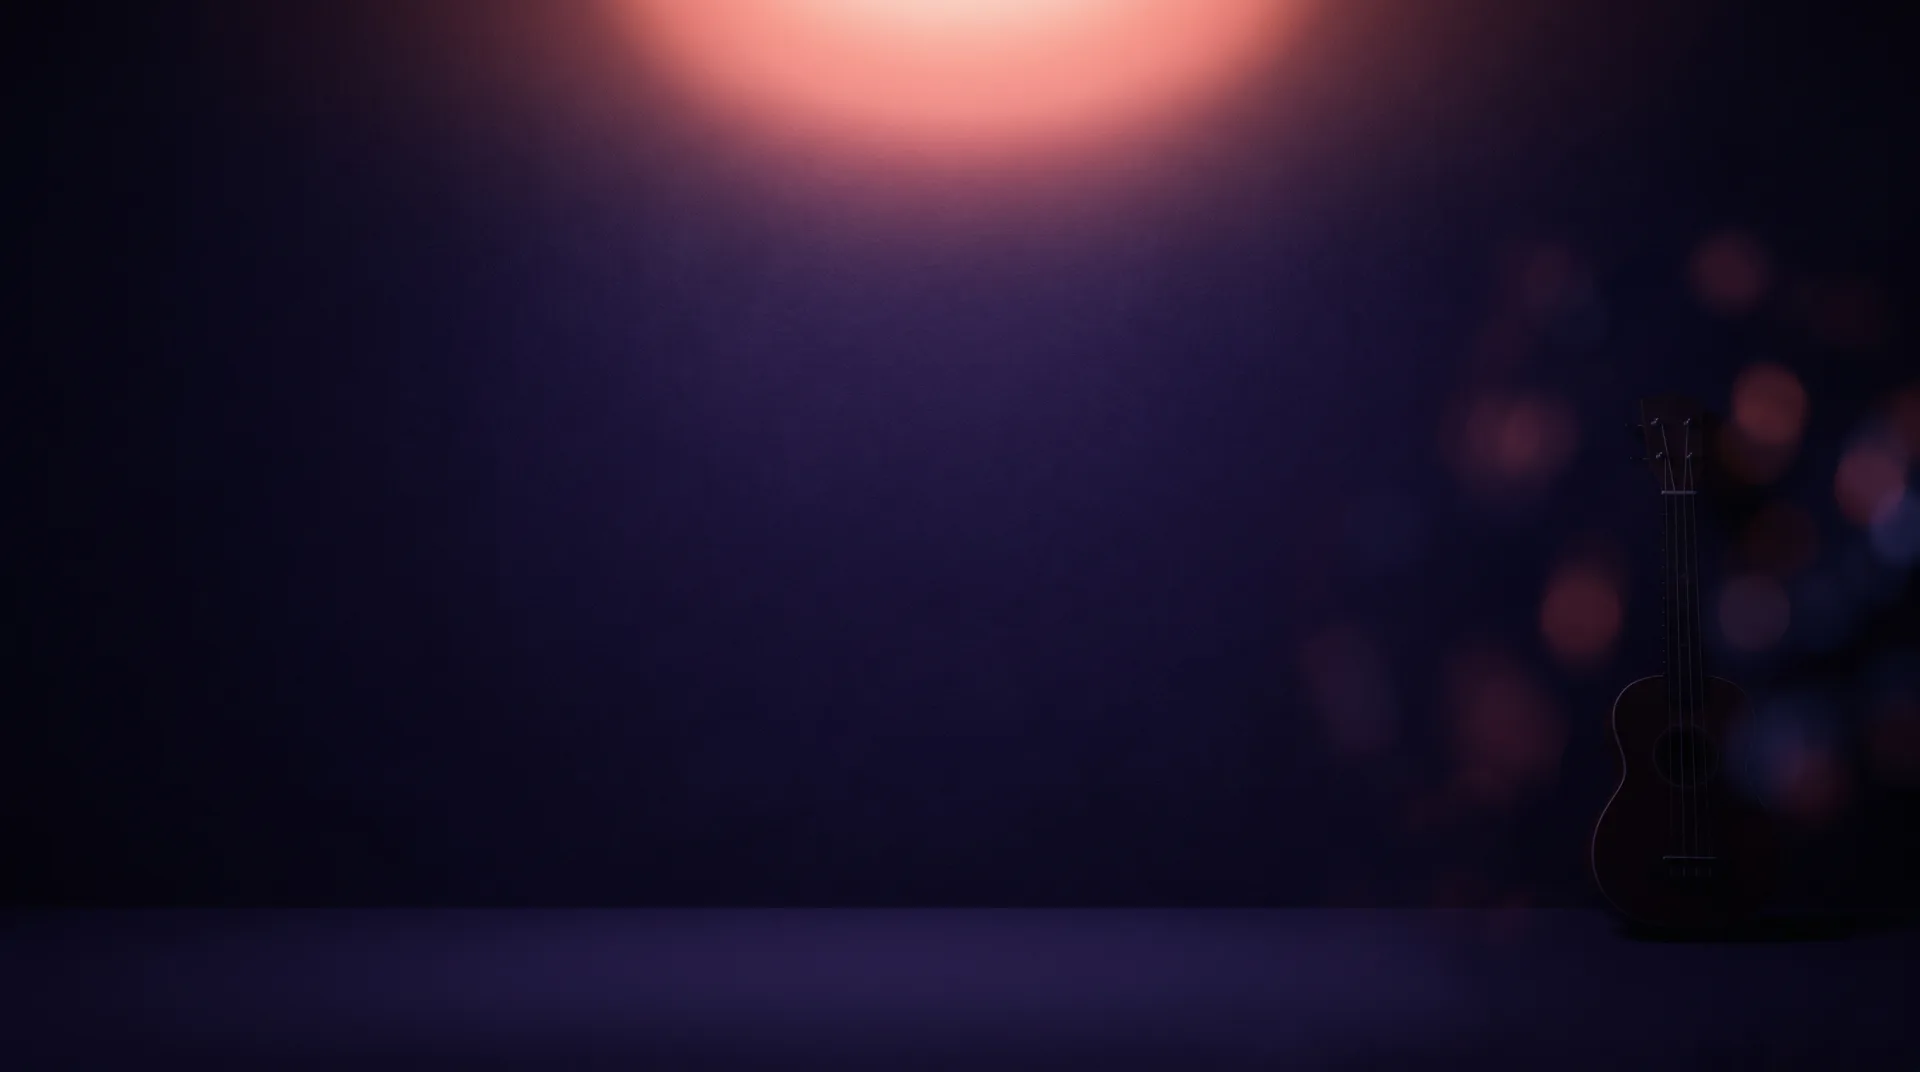
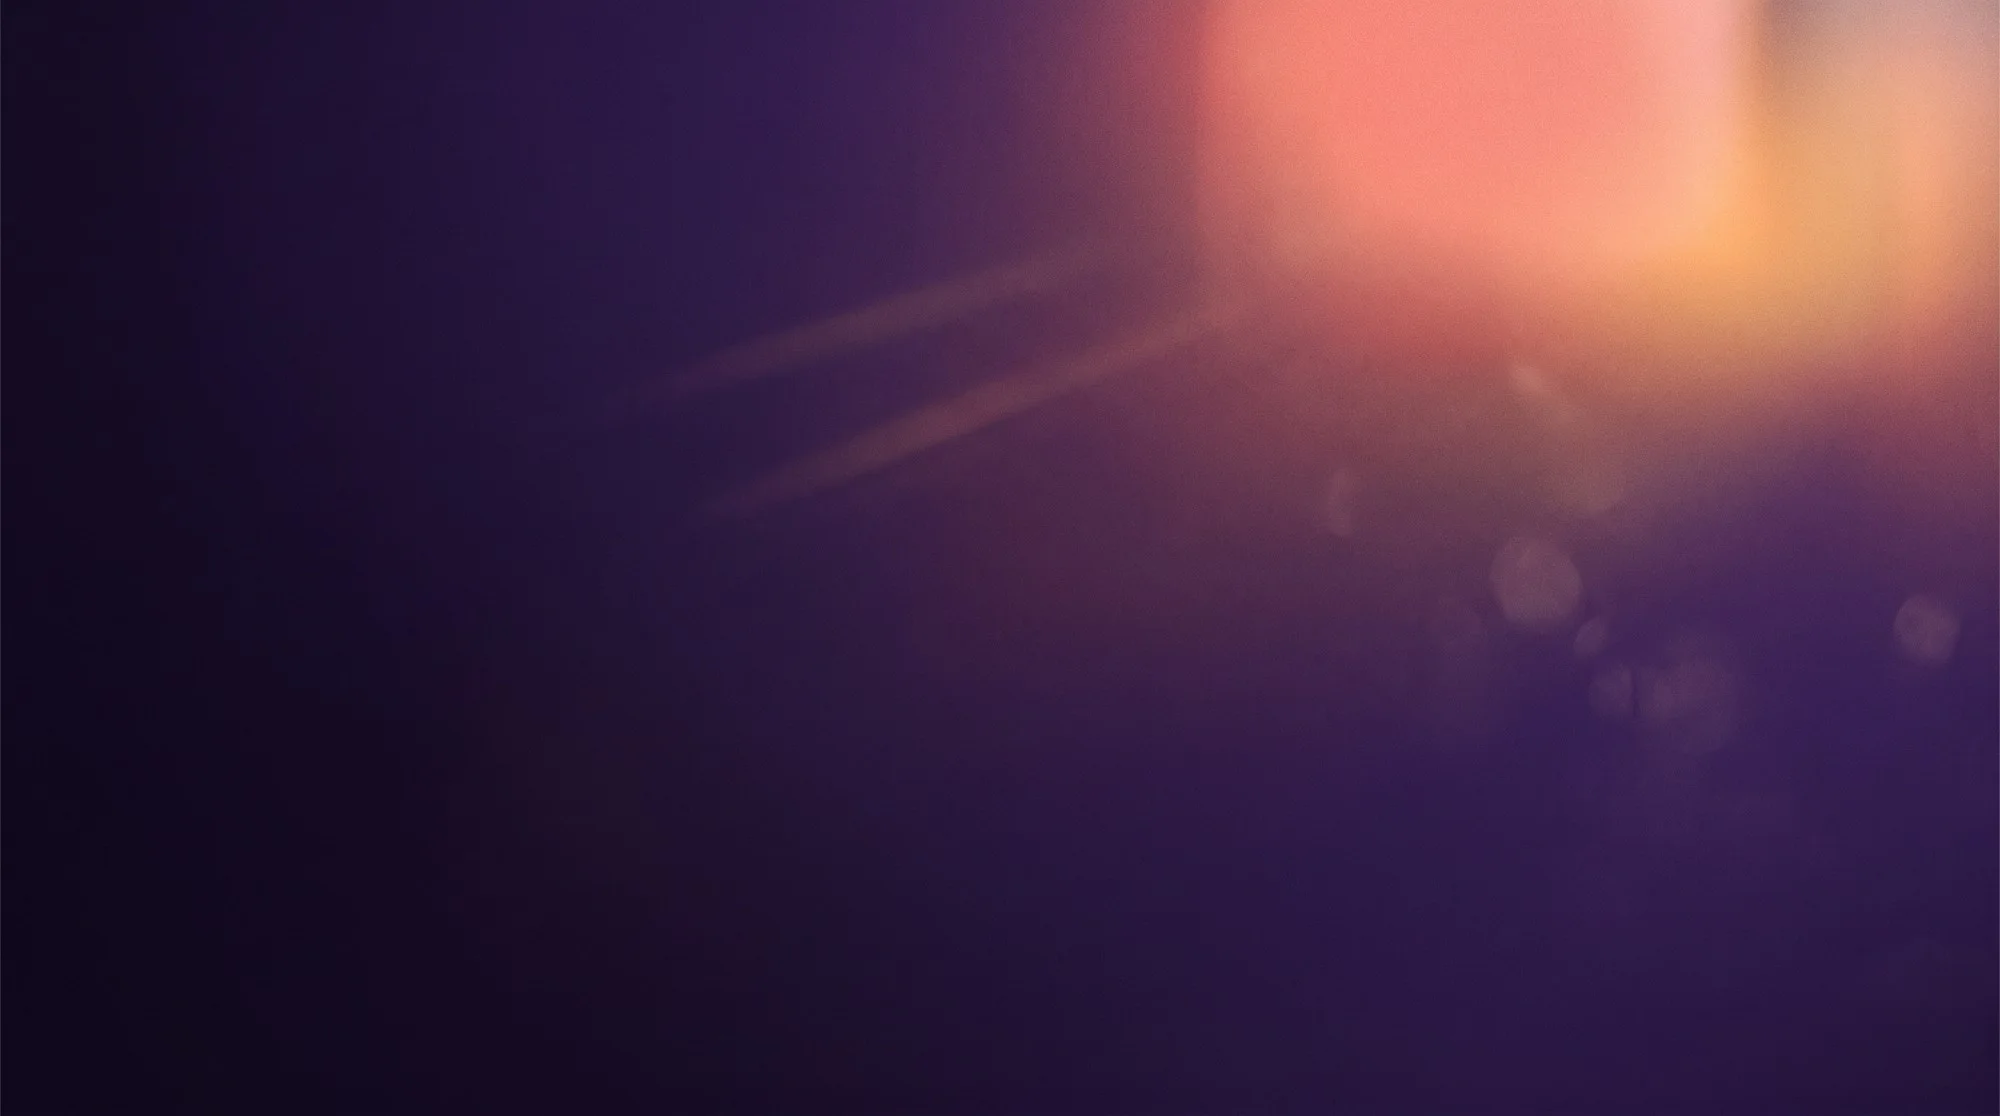
feat(academy): novo fundo do hero, veu mais leve e destaque do titulo de volta ao coral

diff --git a/clube-do-ukulele/academy-pagina-modelo/index.html b/clube-do-ukulele/academy-pagina-modelo/index.html
@@ -307,7 +307,7 @@ table.comp td.nao::before{content:"";display:inline-block;width:14px;height:3px;
 .lp .hero{background:var(--indigo-profundo) url(../../academy/img/hero-fundo.webp) center top/cover no-repeat;color:#fff;padding:28px 0 0;position:relative;overflow:hidden;text-align:center}
 .lp .hero img.logo{width:84px;height:auto;display:block;margin:0 auto 8px}
 .lp .hero h1{font-family:var(--fonte-titulo);font-weight:400;font-size:clamp(26px,3.1vw,46px);line-height:1.15;margin:0 auto 14px;letter-spacing:.3px;text-transform:uppercase;max-width:620px;text-wrap:balance}
-.lp .hero h1 em{font-style:normal;color:#FFC043;display:block;font-size:.64em;line-height:1.12;margin-top:8px;letter-spacing:.5px}
+.lp .hero h1 em{font-style:normal;color:var(--coral);display:block;font-size:.64em;line-height:1.12;margin-top:8px;letter-spacing:.5px}
 .lp .hero .sub{font-size:18px;line-height:1.5;color:var(--sobre-escuro);margin:0 auto 16px;max-width:520px;text-align:center;text-wrap:pretty}
 .lp .hero .sub strong{color:#fff}
 .lp .selos{display:flex;flex-wrap:wrap;gap:6px 8px;margin:0 0 10px;padding:0;list-style:none;justify-content:center}
@@ -738,7 +738,7 @@ table.comp td.nao::before{content:"";display:inline-block;width:14px;height:3px;
 .lp .btn.primario{position:relative;overflow:hidden}
 .lp .btn.primario::after{content:"";position:absolute;inset:0;background:linear-gradient(110deg,transparent 30%,rgb(255 255 255 / .18) 50%,transparent 70%);transform:translateX(-120%);transition:transform .7s}
 .lp .btn.primario:hover::after{transform:translateX(120%)}
-.lp .hero::before{content:"";position:absolute;inset:0;background:linear-gradient(to bottom,rgb(45 18 78 / .58),rgb(45 18 78 / .68) 55%,rgb(45 18 78 / .95));pointer-events:none}
+.lp .hero::before{content:"";position:absolute;inset:0;background:linear-gradient(to bottom,rgb(26 10 51 / .18),rgb(26 10 51 / .30) 60%,rgb(26 10 51 / .92));pointer-events:none}
 .lp .hero .miolo{position:relative}
 .lp .hero-txt{position:relative;z-index:1}
 @media (prefers-reduced-motion:reduce){

diff --git a/academy/briefing-interno.html b/academy/briefing-interno.html
@@ -307,7 +307,7 @@ table.comp td.nao::before{content:"";display:inline-block;width:14px;height:3px;
 .lp .hero{background:var(--indigo-profundo) url(img/hero-fundo.webp) center top/cover no-repeat;color:#fff;padding:28px 0 0;position:relative;overflow:hidden;text-align:center}
 .lp .hero img.logo{width:84px;height:auto;display:block;margin:0 auto 8px}
 .lp .hero h1{font-family:var(--fonte-titulo);font-weight:400;font-size:clamp(26px,3.1vw,46px);line-height:1.15;margin:0 auto 14px;letter-spacing:.3px;text-transform:uppercase;max-width:620px;text-wrap:balance}
-.lp .hero h1 em{font-style:normal;color:#FFC043;display:block;font-size:.64em;line-height:1.12;margin-top:8px;letter-spacing:.5px}
+.lp .hero h1 em{font-style:normal;color:var(--coral);display:block;font-size:.64em;line-height:1.12;margin-top:8px;letter-spacing:.5px}
 .lp .hero .sub{font-size:18px;line-height:1.5;color:var(--sobre-escuro);margin:0 auto 16px;max-width:520px;text-align:center;text-wrap:pretty}
 .lp .hero .sub strong{color:#fff}
 .lp .selos{display:flex;flex-wrap:wrap;gap:6px 8px;margin:0 0 10px;padding:0;list-style:none;justify-content:center}
@@ -738,7 +738,7 @@ table.comp td.nao::before{content:"";display:inline-block;width:14px;height:3px;
 .lp .btn.primario{position:relative;overflow:hidden}
 .lp .btn.primario::after{content:"";position:absolute;inset:0;background:linear-gradient(110deg,transparent 30%,rgb(255 255 255 / .18) 50%,transparent 70%);transform:translateX(-120%);transition:transform .7s}
 .lp .btn.primario:hover::after{transform:translateX(120%)}
-.lp .hero::before{content:"";position:absolute;inset:0;background:linear-gradient(to bottom,rgb(45 18 78 / .58),rgb(45 18 78 / .68) 55%,rgb(45 18 78 / .95));pointer-events:none}
+.lp .hero::before{content:"";position:absolute;inset:0;background:linear-gradient(to bottom,rgb(26 10 51 / .18),rgb(26 10 51 / .30) 60%,rgb(26 10 51 / .92));pointer-events:none}
 .lp .hero .miolo{position:relative}
 .lp .hero-txt{position:relative;z-index:1}
 @media (prefers-reduced-motion:reduce){
